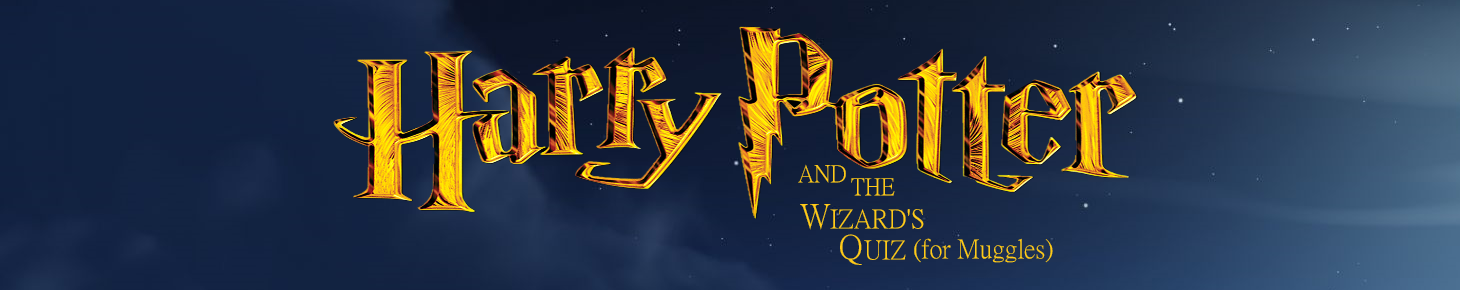
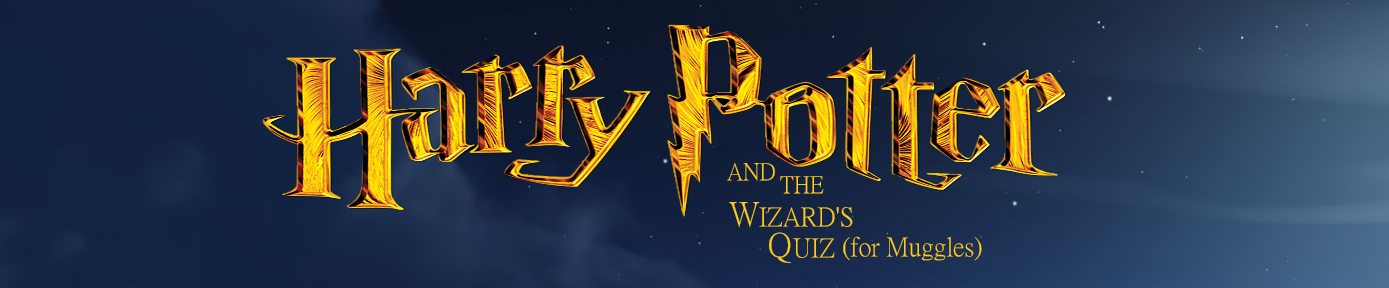
timer is working

Changed region(s): [[0.1857, 0.0, 0.8049, 0.9062], [0.4334, 0.8125, 0.4644, 0.8438]]

diff --git a/assets/javascript/app.js b/assets/javascript/app.js
@@ -4,21 +4,22 @@
  * JavaScript file for Harry Potter Trivia
  ***********************************************/
 
+
 $(document).ready(function () {
 
     var questionOne = {
-        "question": "question array",
-        "answerOne": "answer array",
-        "answerTwo": "answer array2",
-        "answerThree": "answer array3",
-        "answerFour:": "answer array4",
-        "correctAnswer": "answer correct one"
+        "question": "What house at Hogwarts does Harry belong to?",
+        "answerOne": "Hufflepuff",
+        "answerTwo": "Gryffindor",
+        "answerThree": "Ravenclaw",
+        "answerFour": "Slytherin",
+        "correctAnswer": "Gryffindor"
     }
 
     // jQuery variables
-    var answersSpaceDiv = $("#answers-space");
-    var questionSpaceDiv = $("#question-space");
-    var questonAnswerSpaceDive = $("#question-answer-space");
+
+    var questionAnswerSpaceDiv = $("#question-answer-space");
+    var startDiv = $("#start-button");
 
     // variables and arrays
     var questionsArray = [questionOne];
@@ -27,15 +28,31 @@ $(document).ready(function () {
     var secondAnswer;
     var thirdAnswer;
     var fourthAnswer;
-    var correctAnswer;
+    // var correctAnswer;
+    var time = 15;
 
-    console.log("here")
-    buildQuestions(questionsArray);
+    //  This code will run as soon as the page loads.
+    window.onload = function () {
+        startDiv.on("click", startGame);
+    };
+
+
+    // start game 
+    function startGame() {
+        // clear start button out of div
+        questionAnswerSpaceDiv.empty();
+
+        var intervalId = setInterval(count, 1000)
+        buildQuestions(questionsArray);
+        setTimeout(function () {
+            timeUp(intervalId);
+        }, 15000);
+    }
+
 
     // build questions
     function buildQuestions(questionsArray) {
         $.each(questionsArray, function () {
-            console.log("this" + this);
             var thisQuestion = this;
             question = thisQuestion.question;
             firstAnswer = thisQuestion.answerOne;
@@ -43,19 +60,59 @@ $(document).ready(function () {
             thirdAnswer = thisQuestion.answerThree;
             fourthAnswer = thisQuestion.answerFour;
             thisCorrectAsnwer = thisQuestion.correctAnswer;
-            console.log("question " + thisQuestion.question)
-            var questionDiv = $("<div/>", { id: "question", text: question });
-            var answerOneDiv = $("<div/>", { id: "answer-one", text: firstAnswer });
-            var answerTwoDiv = $("<div/>", { id: "answer-two", text: secondAnswer });
-            var answerThreeDiv = $("<div/>", { id: "answer-three", text: thirdAnswer });
-            var answerFourDiv = $("<div/>", { id: "answer-four", text: fourthAnswer });
+            questionSpaceDiv = $("<div>", { class: "question-space" });
+            var questionDiv = $("<h1>", { id: "question", text: question });
+            var answersDiv = $("<ol>");
+            answerSpaceDiv = $("<div>", { class: "answer-space" });
+            var answerOneDiv = $("<li>", { id: "answer-one", text: firstAnswer });
+            var answerTwoDiv = $("<li>", { id: "answer-two", text: secondAnswer });
+            var answerThreeDiv = $("<li>", { id: "answer-three", text: thirdAnswer });
+            var answerFourDiv = $("<li>", { id: "answer-four", text: fourthAnswer });
 
-            questonAnswerSpaceDive.append(questionDiv);
-            questonAnswerSpaceDive.append(answerOneDiv);
-            questonAnswerSpaceDive.append(answerTwoDiv);
-            questonAnswerSpaceDive.append(answerThreeDiv);
-            questonAnswerSpaceDive.append(answerFourDiv);
-
+            questionSpaceDiv.append(questionDiv);
+            questionAnswerSpaceDiv.append(questionSpaceDiv);
+            answersDiv.append(answerOneDiv);
+            answersDiv.append(answerTwoDiv);
+            answersDiv.append(answerThreeDiv);
+            answersDiv.append(answerFourDiv);
+            answerSpaceDiv.append(answersDiv);
+            questionAnswerSpaceDiv.append(answerSpaceDiv);
         })
+    }
+
+    function count() {
+
+        time--
+
+        currentTime = timeConverter(time);
+        var timerDiv = $("<div>", { id: "timer", html: "Time Left: " + currentTime });
+        $("#timer-col").html(timerDiv);
+    }
+
+
+    function timeConverter(t) {
+
+        var minutes = Math.floor(t / 60);
+        var seconds = t - (minutes * 60);
+
+        if (seconds < 10) {
+            seconds = "0" + seconds;
+        }
+
+        if (minutes === 0) {
+            minutes = "00";
+        }
+
+        else if (minutes < 10) {
+            minutes = "0" + minutes;
+        }
+
+        return minutes + ":" + seconds;
+    }
+
+    function timeUp(intervalId) {
+        $("#timer-col").empty();
+        clearInterval(intervalId);
+        questionAnswerSpaceDiv.html("<h2>Time's Up</h2>");
     }
 })

diff --git a/assets/css/style.css b/assets/css/style.css
@@ -5,24 +5,36 @@
  ***********************************************/
 
  body {
-    background-image: url("../images/mainBackground.png");
+    background-image: url("../images/mainBackground.jpg");
     background-repeat: no-repeat;
-    background-size: auto;}
-#banner {
-    background-image: url("../images/harryPotterBanner.png");
-    background-size: cover;
-    border-bottom: 4px solid goldenrod;
-    border-right: 4px solid goldenrod;
-    border-left: 4px solid goldenrod;
-    height: 220px !important;
+    background-size: auto;
 }
-#question {
+button {
+    position:relative;
+    top:40%; 
+    left:42%;
+    background: goldenrod !important;
+}
+/* h1, ol {
     color: black !important;
     opacity: 1 !important;
+    font-weight: bold;
+} */
+#banner {
+    background-image: url("../images/harryPotterBanner.png");
+    margin-left: 20px;
+    background-size: cover;
+    border: 4px solid goldenrod;
+    height: 240px !important;
+}
+#timer {
+    background-image: url("../images/maraudersMap.jpg");
 }
 #question-answer-space {
     background-image: url("../images/maraudersMap.jpg");
+    background-repeat: no-repeat;
+    background-size: cover;
     resize: vertical;
     height: 420px;
-    opacity: .4;
+    opacity: .7;
 }

diff --git a/index.html b/index.html
@@ -22,12 +22,24 @@
             </div>
         </div>
         <div class="row">
+            <div class="col-lg-5">
+
+            </div>
+            <div class="col-lg-2" id="timer-col">
+                <div class="timer"></div>
+
+            </div>
+            <div class="col-lg-5">
+
+            </div>
+        </div>
+        <div class="row">
             <div class="col-lg-2">
 
             </div>
             <div class="col-lg-8 jumbotron img-fluid mt-3" id="question-answer-space">
-                <!-- <div class="question-space"></div>
-                <div class="answers-space"></div> -->
+                <button class="btn btn-lg" id="start-button">Start Game</button>
+
             </div>
             <div class="col-lg-2">
 
